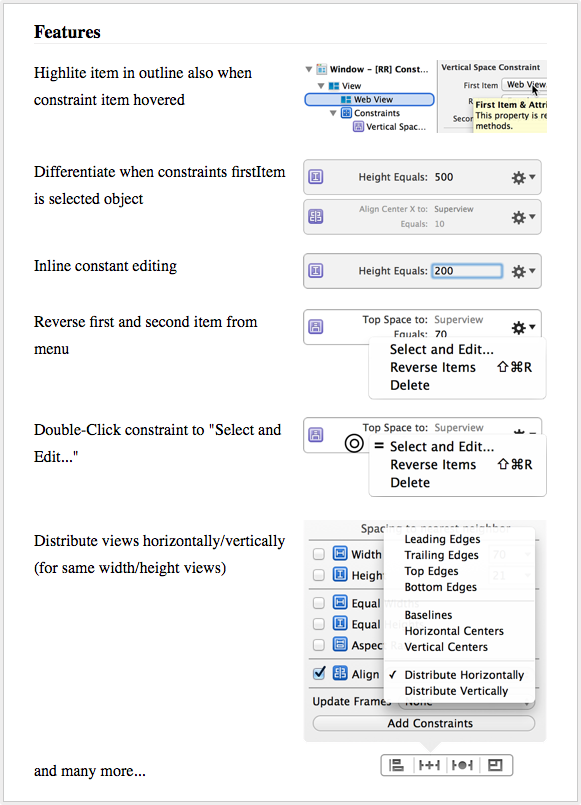
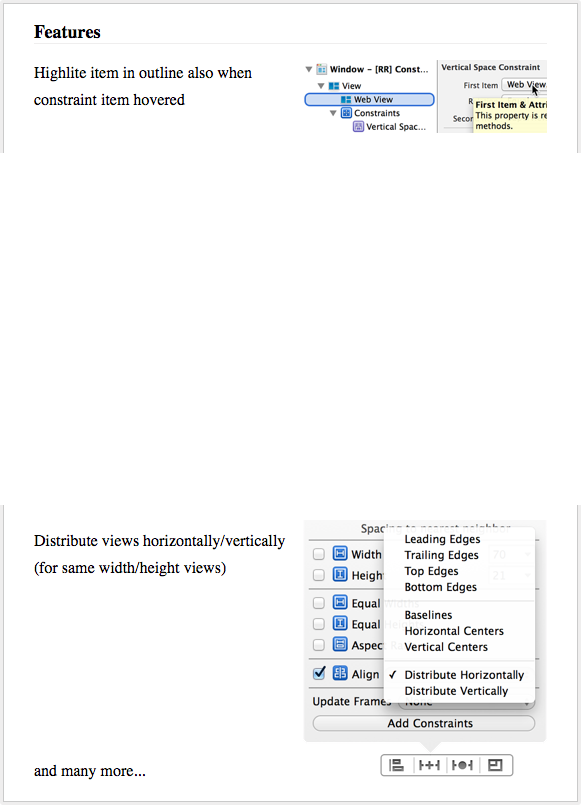
fixed features to work on Xcode6

diff --git a/RRConstraintsPlugin/Resources/ChangeLog/index.html b/RRConstraintsPlugin/Resources/ChangeLog/index.html
@@ -43,7 +43,8 @@
 
                 <h3>v2.0</h3>
                 <p>
-                    Moved to Xcode 6.1 support only
+                    Moved to Xcode 6.1 support only. <br />
+                    Removed features natively implemented in Xcode 6
                     <br style="clear: both;" />
                 </p>
     

diff --git a/RRConstraintsPlugin/Classes/Controller/RRInspectorReferencingConstraintViewController.m b/RRConstraintsPlugin/Classes/Controller/RRInspectorReferencingConstraintViewController.m
@@ -63,104 +63,4 @@
 }
 
 
-- (NSFont *)rr_leftHandLabelFont {
-    NSFont *leftHandLabelFont = [self rr_leftHandLabelFont];
-
-    if( self.constraint.secondItem && ![self.constraint.secondItem isEqual:self.relatedViewInConstraintRelationship] ){
-        leftHandLabelFont = [NSFont fontWithName:leftHandLabelFont.fontName size:leftHandLabelFont.pointSize -2];
-    }
-    
-    return leftHandLabelFont;
-}
-
-
-- (NSColor *)rr_leftHandLabelTextColor {
-    if( self.constraint.secondItem && ![self.constraint.secondItem isEqual:self.relatedViewInConstraintRelationship] ){
-        return [NSColor grayColor];
-    }
-    
-    return [self rr_leftHandLabelTextColor];
-}
-
-
-- (NSFont *)rr_rightHandLabelFont {
-    NSFont *rightHandLabelFont = [self rr_rightHandLabelFont];
-
-    if( self.constraint.secondItem && ![self.constraint.secondItem isEqual:self.relatedViewInConstraintRelationship] ){
-        rightHandLabelFont = [NSFont fontWithName:rightHandLabelFont.fontName size:rightHandLabelFont.pointSize -2];
-    }
-    
-    return rightHandLabelFont;
-}
-
-
-- (NSColor *)rr_rightHandLabelTextColor {
-    if( self.constraint.secondItem && ![self.constraint.secondItem isEqual:self.relatedViewInConstraintRelationship] ){
-        return [NSColor grayColor];
-    }
-    
-    return [self rr_rightHandLabelTextColor];
-}
-
-
-- (void)rr_updateMenuItems {
-    [self rr_updateMenuItems];
-    
-    if( self.constraint.secondItem ){
-        NSMenuItem *reverseMenuItem = [self rr_reverseMenuItem];
-        NSArray *itemArray = self.constraintView.popUpButton.menu.itemArray;
-        
-        if( ![itemArray containsObject:reverseMenuItem] ){
-            [self.constraintView.popUpButton.menu insertItem: reverseMenuItem
-                                                     atIndex: [itemArray indexOfObject: self.deleteMenuItem] -1];
-        }
-    }
-}
-
-
-#pragma mark -
-#pragma mark RRInspectorReferencingConstraintViewController
-
-
-- (void)rr_reverseFirstAndSecondItem {
-    [self.constraint reverseFirstAndSecondItem];
-}
-
-
-- (NSMenuItem *)rr_reverseMenuItem {
-    NSMenuItem *reverseMenuItem = objc_getAssociatedObject(self, @selector(rr_reverseMenuItem));
-    if( !reverseMenuItem ){
-        reverseMenuItem = [[NSMenuItem alloc] initWithTitle:@"Reverse Items" action:@selector(rr_reverseFirstAndSecondItem) keyEquivalent:@"R"];
-        [reverseMenuItem setTarget:self];
-        objc_setAssociatedObject(self, @selector(rr_reverseMenuItem), reverseMenuItem, OBJC_ASSOCIATION_RETAIN_NONATOMIC);
-    }
-    return reverseMenuItem;
-}
-
-
-#pragma mark -
-#pragma mark RRInspectorReferencingConstraintViewDelegate
-
-
-- (void)constraintViewDidChangeConstantValue:(IBInspectorReferencingConstraintView *)view {
-
-    IBLayoutConstant *layoutConstant = self.constraint.constant;
-    double newValue = [self.constraintView.constantValueLabel doubleValue];
-    
-    if( newValue != layoutConstant.value ){
-        Ivar documentIvar = class_getInstanceVariable([self class], "document");
-
-        [self.constraint setIbInspectedConstant: [layoutConstant constantBySettingValueToValue: newValue]
-                                       document: object_getIvar(self, documentIvar)
-                frameDecideAfterSettingConstant: YES];
-    }
-
-}
-
-
-- (void)constraintViewDidDoubleClick:(IBInspectorReferencingConstraintView *)view {
-    [self.delegate referencingConstraintViewControllerSelectConstraint: (IBInspectorReferencingConstraintViewController *)self];
-}
-
-
 @end

diff --git a/RRConstraintsPlugin/Classes/Model/RRAutolayoutConstraintDrawable.m b/RRConstraintsPlugin/Classes/Model/RRAutolayoutConstraintDrawable.m
@@ -1,5 +1,5 @@
 //
-//  RRViewEditorLayoutConstraintDrawable.m
+//  RRAutolayoutConstraintDrawable.m
 //  RRConstraintsPlugin
 //
 //  Copyright (c) 2014 Rolandas Razma <rolandas@razma.lt>
@@ -22,16 +22,16 @@
 //  OUT OF OR IN CONNECTION WITH THE SOFTWARE OR THE USE OR OTHER DEALINGS IN
 //  THE SOFTWARE.
 
-#import "IBViewEditorLayoutConstraintDrawable.h"
+#import "IBAutolayoutConstraintDrawable.h"
 #import "IBLayoutConstraint.h"
 
 
-@interface RRViewEditorLayoutConstraintDrawable : NSObject <IBViewEditorLayoutConstraintDrawable>
+@interface RRAutolayoutConstraintDrawable : NSObject <IBAutolayoutConstraintDrawable>
 
 @end
 
 
-@implementation RRViewEditorLayoutConstraintDrawable
+@implementation RRAutolayoutConstraintDrawable
 
 
 #pragma mark -
@@ -39,12 +39,12 @@
 
 
 + (void)load {
-    [NSClassFromString(@"IBViewEditorLayoutConstraintDrawable") importMethodsFromClass:[self class] exchangeImplementationsPrefix:"rr_"];
+    [NSClassFromString(@"IBAutolayoutConstraintDrawable") importMethodsFromClass:[self class] exchangeImplementationsPrefix:"rr_"];
 }
 
 
 #pragma mark -
-#pragma mark IBViewEditorLayoutConstraintDrawable
+#pragma mark IBAutolayoutConstraintDrawable
 
 
 - (void)rr_setColor:(NSColor *)color {
@@ -62,9 +62,7 @@
     }
     
     [self rr_setDashed:dashed];
-
 }
-
 
 
 @end

diff --git a/RRConstraintsPlugin/Classes/Support/XcodeInternals/Model/IBAutolayoutConstraintDrawable.h b/RRConstraintsPlugin/Classes/Support/XcodeInternals/Model/IBAutolayoutConstraintDrawable.h
@@ -1,5 +1,5 @@
 //
-//  IBViewEditorLayoutConstraintDrawable.h
+//  IBAutolayoutConstraintDrawable.h
 //  RRConstraintsPlugin
 //
 //  Copyright (c) 2014 Rolandas Razma <rolandas@razma.lt>
@@ -25,7 +25,7 @@
 @class IBLayoutConstraint;
 
 
-@protocol IBViewEditorLayoutConstraintDrawable <NSObject>
+@protocol IBAutolayoutConstraintDrawable <NSObject>
 @optional
 
 @property(retain, nonatomic) IBLayoutConstraint *constraint;
@@ -35,6 +35,6 @@
 @end
 
 
-@interface IBViewEditorLayoutConstraintDrawable : NSObject <IBViewEditorLayoutConstraintDrawable>
+@interface IBAutolayoutConstraintDrawable : NSObject <IBAutolayoutConstraintDrawable>
 
 @end

diff --git a/RRConstraintsPlugin/Classes/Controller/RRInspectorReferencingConstraintViewDelegate.h b/RRConstraintsPlugin/Classes/Controller/RRInspectorReferencingConstraintViewDelegate.h
@@ -28,7 +28,4 @@
 
 @protocol RRInspectorReferencingConstraintViewDelegate <IBInspectorReferencingConstraintViewDelegate>
 
-- (void)constraintViewDidChangeConstantValue:(IBInspectorReferencingConstraintView *)view;
-- (void)constraintViewDidDoubleClick:(IBInspectorReferencingConstraintView *)view;
-
 @end

diff --git a/README.md b/README.md
@@ -37,26 +37,6 @@ Grayed out icons for "Remove at build time" constraints
 <img src="https://raw.github.com/RolandasRazma/RRConstraintsPlugin/develop/RRConstraintsPlugin/Resources/ChangeLog/Images/remove_at_build_time.png" width="244">
 
 
-Differentiate when constraints firstItem is selected object
-
-<img src="https://raw.github.com/RolandasRazma/RRConstraintsPlugin/develop/RRConstraintsPlugin/Resources/ChangeLog/Images/differentiate_when_firstitem.png" width="244">
-
-
-Inline constant editing
-
-<img src="https://raw.github.com/RolandasRazma/RRConstraintsPlugin/develop/RRConstraintsPlugin/Resources/ChangeLog/Images/inline_constant_editing.png" width="244">
-
-
-Reverse first and second item from menu
-
-<img src="https://raw.github.com/RolandasRazma/RRConstraintsPlugin/develop/RRConstraintsPlugin/Resources/ChangeLog/Images/reverse_first_and_second-item_from_menu.png" width="244">
-
-
-Double-Click constraint to "Select and Edit..."
-
-<img src="https://raw.github.com/RolandasRazma/RRConstraintsPlugin/develop/RRConstraintsPlugin/Resources/ChangeLog/Images/double_click_to_edit.png" width="244">
-
-
 Distribute views horizontally/vertically (for same width/height views)
 
 <img src="https://raw.github.com/RolandasRazma/RRConstraintsPlugin/develop/RRConstraintsPlugin/Resources/ChangeLog/Images/distribute_views.png" width="244">
